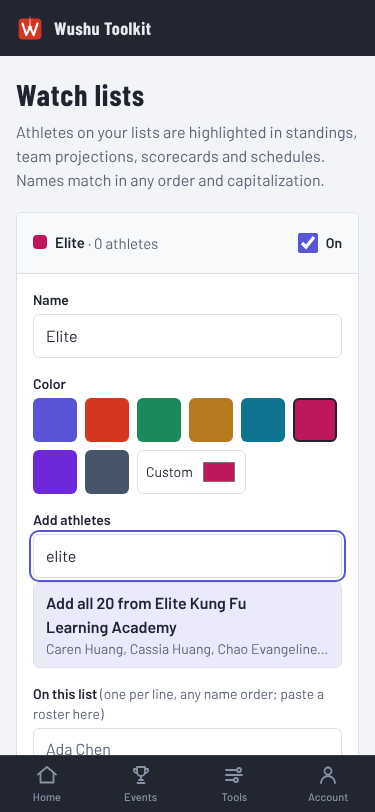
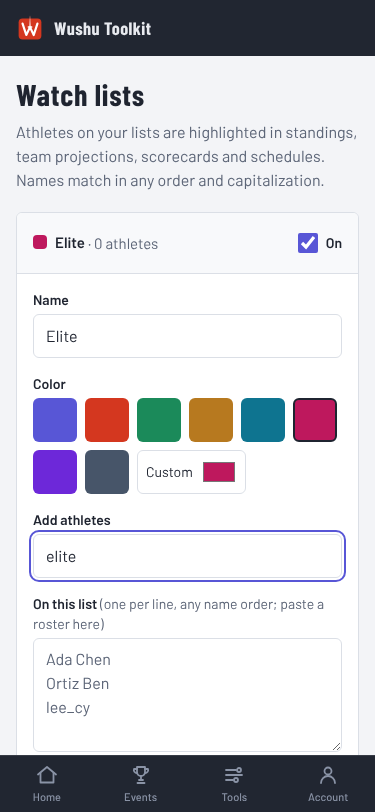
Remove one-tap club suggestions from the watch-list type-ahead

Changed region(s): [[0.088, 0.7081, 0.8507, 0.9544]]

diff --git a/components/watchlist/athlete-picker.tsx b/components/watchlist/athlete-picker.tsx
@@ -1,17 +1,17 @@
 "use client";
 
 import { useEffect, useId, useMemo, useState } from "react";
-import { suggestAthletes, suggestClubs, type AthleteIndex } from "@/lib/watchlist/suggest";
+import { suggestAthletes, type AthleteIndex } from "@/lib/watchlist/suggest";
 
 let indexPromise: Promise<AthleteIndex> | null = null;
 const loadIndex = () =>
   (indexPromise ??= fetch("/api/athletes")
-    .then((r) => (r.ok ? (r.json() as Promise<AthleteIndex>) : { athletes: [], clubs: [] }))
-    .catch(() => ({ athletes: [], clubs: [] })));
+    .then((r) => (r.ok ? (r.json() as Promise<AthleteIndex>) : { athletes: [] }))
+    .catch(() => ({ athletes: [] })));
 
-type Option = { kind: "athlete"; name: string; detail: string } | { kind: "club"; name: string; athletes: string[] } | { kind: "typed"; name: string };
+type Option = { kind: "athlete"; name: string; detail: string } | { kind: "typed"; name: string };
 
-/** Type-ahead for adding athletes, suggesting names (and whole clubs) from past competitions. */
+/** Type-ahead for adding athletes, suggesting names from past competitions. */
 export function AthletePicker({ exclude, onAdd }: { exclude: string[]; onAdd: (names: string[]) => void }) {
   const [index, setIndex] = useState<AthleteIndex | null>(null);
   const [q, setQ] = useState("");
@@ -24,10 +24,8 @@ export function AthletePicker({ exclude, onAdd }: { exclude: string[]; onAdd: (n
 
   const options = useMemo<Option[]>(() => {
     if (!q.trim()) return [];
-    const clubs = index ? suggestClubs(index, q) : [];
     const people = index ? suggestAthletes(index, q, exclude) : [];
     const out: Option[] = [
-      ...clubs.map((c) => ({ kind: "club" as const, name: c.name, athletes: c.athletes })),
       ...people.map((a) => ({ kind: "athlete" as const, name: a.name, detail: [a.clubs[0], a.events.slice(0, 2).join(", ")].filter(Boolean).join(" · ") })),
     ];
     if (q.trim().split(/\s+/).length >= 2 && !people.some((p) => p.name.toLowerCase() === q.trim().toLowerCase())) out.push({ kind: "typed", name: q.trim() });
@@ -35,7 +33,7 @@ export function AthletePicker({ exclude, onAdd }: { exclude: string[]; onAdd: (n
   }, [index, q, exclude]);
 
   const choose = (o: Option) => {
-    onAdd(o.kind === "club" ? o.athletes : [o.name]);
+    onAdd([o.name]);
     setQ("");
     setActive(0);
   };
@@ -63,7 +61,7 @@ export function AthletePicker({ exclude, onAdd }: { exclude: string[]; onAdd: (n
         aria-activedescendant={options.length ? `${id}-opt-${active}` : undefined}
         aria-autocomplete="list"
         autoComplete="off"
-        placeholder="Start typing a name or club"
+        placeholder="Start typing a name"
         value={q}
         onChange={(e) => {
           setQ(e.target.value);
@@ -85,14 +83,7 @@ export function AthletePicker({ exclude, onAdd }: { exclude: string[]; onAdd: (n
               onMouseEnter={() => setActive(i)}
               className={`flex min-h-tap cursor-pointer flex-col justify-center px-3 py-2 ${i === active ? "bg-primary-soft" : ""}`}
             >
-              {o.kind === "club" ? (
-                <>
-                  <span className="font-semibold">
-                    Add all {o.athletes.length} from {o.name}
-                  </span>
-                  <span className="truncate text-sm text-ink-muted">{o.athletes.slice(0, 4).join(", ")}{o.athletes.length > 4 ? ", …" : ""}</span>
-                </>
-              ) : o.kind === "athlete" ? (
+              {o.kind === "athlete" ? (
                 <>
                   <span className="font-semibold">{o.name}</span>
                   {o.detail && <span className="truncate text-sm text-ink-muted">{o.detail}</span>}

diff --git a/lib/watchlist/suggest.ts b/lib/watchlist/suggest.ts
@@ -9,14 +9,8 @@ export interface KnownAthlete {
   events: string[];
 }
 
-export interface KnownClub {
-  name: string;
-  athletes: string[];
-}
-
 export interface AthleteIndex {
   athletes: KnownAthlete[];
-  clubs: KnownClub[];
 }
 
 const clubKey = (c: string) => c.toLowerCase().replace(/[^a-z0-9]+/g, " ").trim();
@@ -45,16 +39,7 @@ export function buildAthleteIndex(events: { label: string; data: EventData }[]):
   const athletes = [...people.values()]
     .map((p) => ({ name: bestSpelling(p.spellings), clubs: [...p.clubs.values()], events: [...p.events] }))
     .sort((a, b) => a.name.localeCompare(b.name));
-  const clubs = new Map<string, KnownClub>();
-  for (const a of athletes) {
-    for (const c of a.clubs) {
-      const k = clubKey(c);
-      const entry = clubs.get(k) ?? { name: c, athletes: [] };
-      entry.athletes.push(a.name);
-      clubs.set(k, entry);
-    }
-  }
-  return { athletes, clubs: [...clubs.values()].filter((c) => c.athletes.length > 1).sort((a, b) => a.name.localeCompare(b.name)) };
+  return { athletes };
 }
 
 /** Every query word must start some word of the name, in any order: "tan ab" finds "Abram Tang". */
@@ -69,10 +54,4 @@ export function suggestAthletes(index: AthleteIndex, query: string, exclude: str
     .filter((a) => prefixMatch(q, nameTokens(a.name)) && !exclude.some((e) => namesMatch(e, a.name)))
     .sort((a, b) => b.events.length - a.events.length || a.name.localeCompare(b.name))
     .slice(0, limit);
-}
-
-export function suggestClubs(index: AthleteIndex, query: string, limit = 3): KnownClub[] {
-  const q = nameTokens(query);
-  if (!q.length || q.join("").length < 3) return [];
-  return index.clubs.filter((c) => prefixMatch(q, nameTokens(c.name))).slice(0, limit);
 }

diff --git a/tests/watchlist.test.ts b/tests/watchlist.test.ts
@@ -46,7 +46,7 @@ test("parseRoster handles lines, commas and duplicates", () => {
   assert.deepEqual(parseRoster("Wu, Ashton\nChen, Ada"), ["Wu, Ashton", "Chen, Ada"]);
 });
 
-import { buildAthleteIndex, suggestAthletes, suggestClubs } from "@/lib/watchlist/suggest";
+import { buildAthleteIndex, suggestAthletes } from "@/lib/watchlist/suggest";
 import type { EventData } from "@/lib/domain/types";
 
 const ev = (label: string, rows: [string, string?][]): { label: string; data: EventData } => ({
@@ -70,7 +70,6 @@ test("index merges spellings across events and prefers mixed case", () => {
   assert.ok(tang);
   assert.deepEqual(tang.events, ["2024 Juniors", "2025 Juniors"]);
   assert.equal(index.athletes.length, 4, "one-word names are skipped");
-  assert.deepEqual(index.clubs.map((c) => [c.name, c.athletes.length]), [["Elite Kung Fu", 2]]);
 });
 
 test("suggestAthletes matches word prefixes in any order and skips listed athletes", () => {
@@ -78,9 +77,4 @@ test("suggestAthletes matches word prefixes in any order and skips listed athlet
   assert.deepEqual(suggestAthletes(index, "a"), [], "one letter is too little");
   assert.deepEqual(suggestAthletes(index, "ada").map((a) => a.name), ["Ada Chen"]);
   assert.deepEqual(suggestAthletes(index, "ada", ["chen_ada"]), []);
-});
-
-test("suggestClubs finds clubs by word prefix", () => {
-  assert.deepEqual(suggestClubs(index, "elite k").map((c) => c.name), ["Elite Kung Fu"]);
-  assert.deepEqual(suggestClubs(index, "no"), []);
 });

diff --git a/docs/ROADMAP.md b/docs/ROADMAP.md
@@ -43,7 +43,7 @@ Resume from the first unchecked item. One commit per item.
 ## Phase 5b — Watch lists
 - [x] Local watch lists (multiple, colored, one per school) with fuzzy name matching
 - [x] Highlight on every competition page (standings, team, results, scorecards, schedule, all-around)
-- [x] Type-ahead from past competitions, plus "add everyone from this club"
+- [x] Type-ahead from past competitions
 - [ ] Optional: sync lists to the account once accounts are live
 
 ## Phase 5c — Nandu calculator
